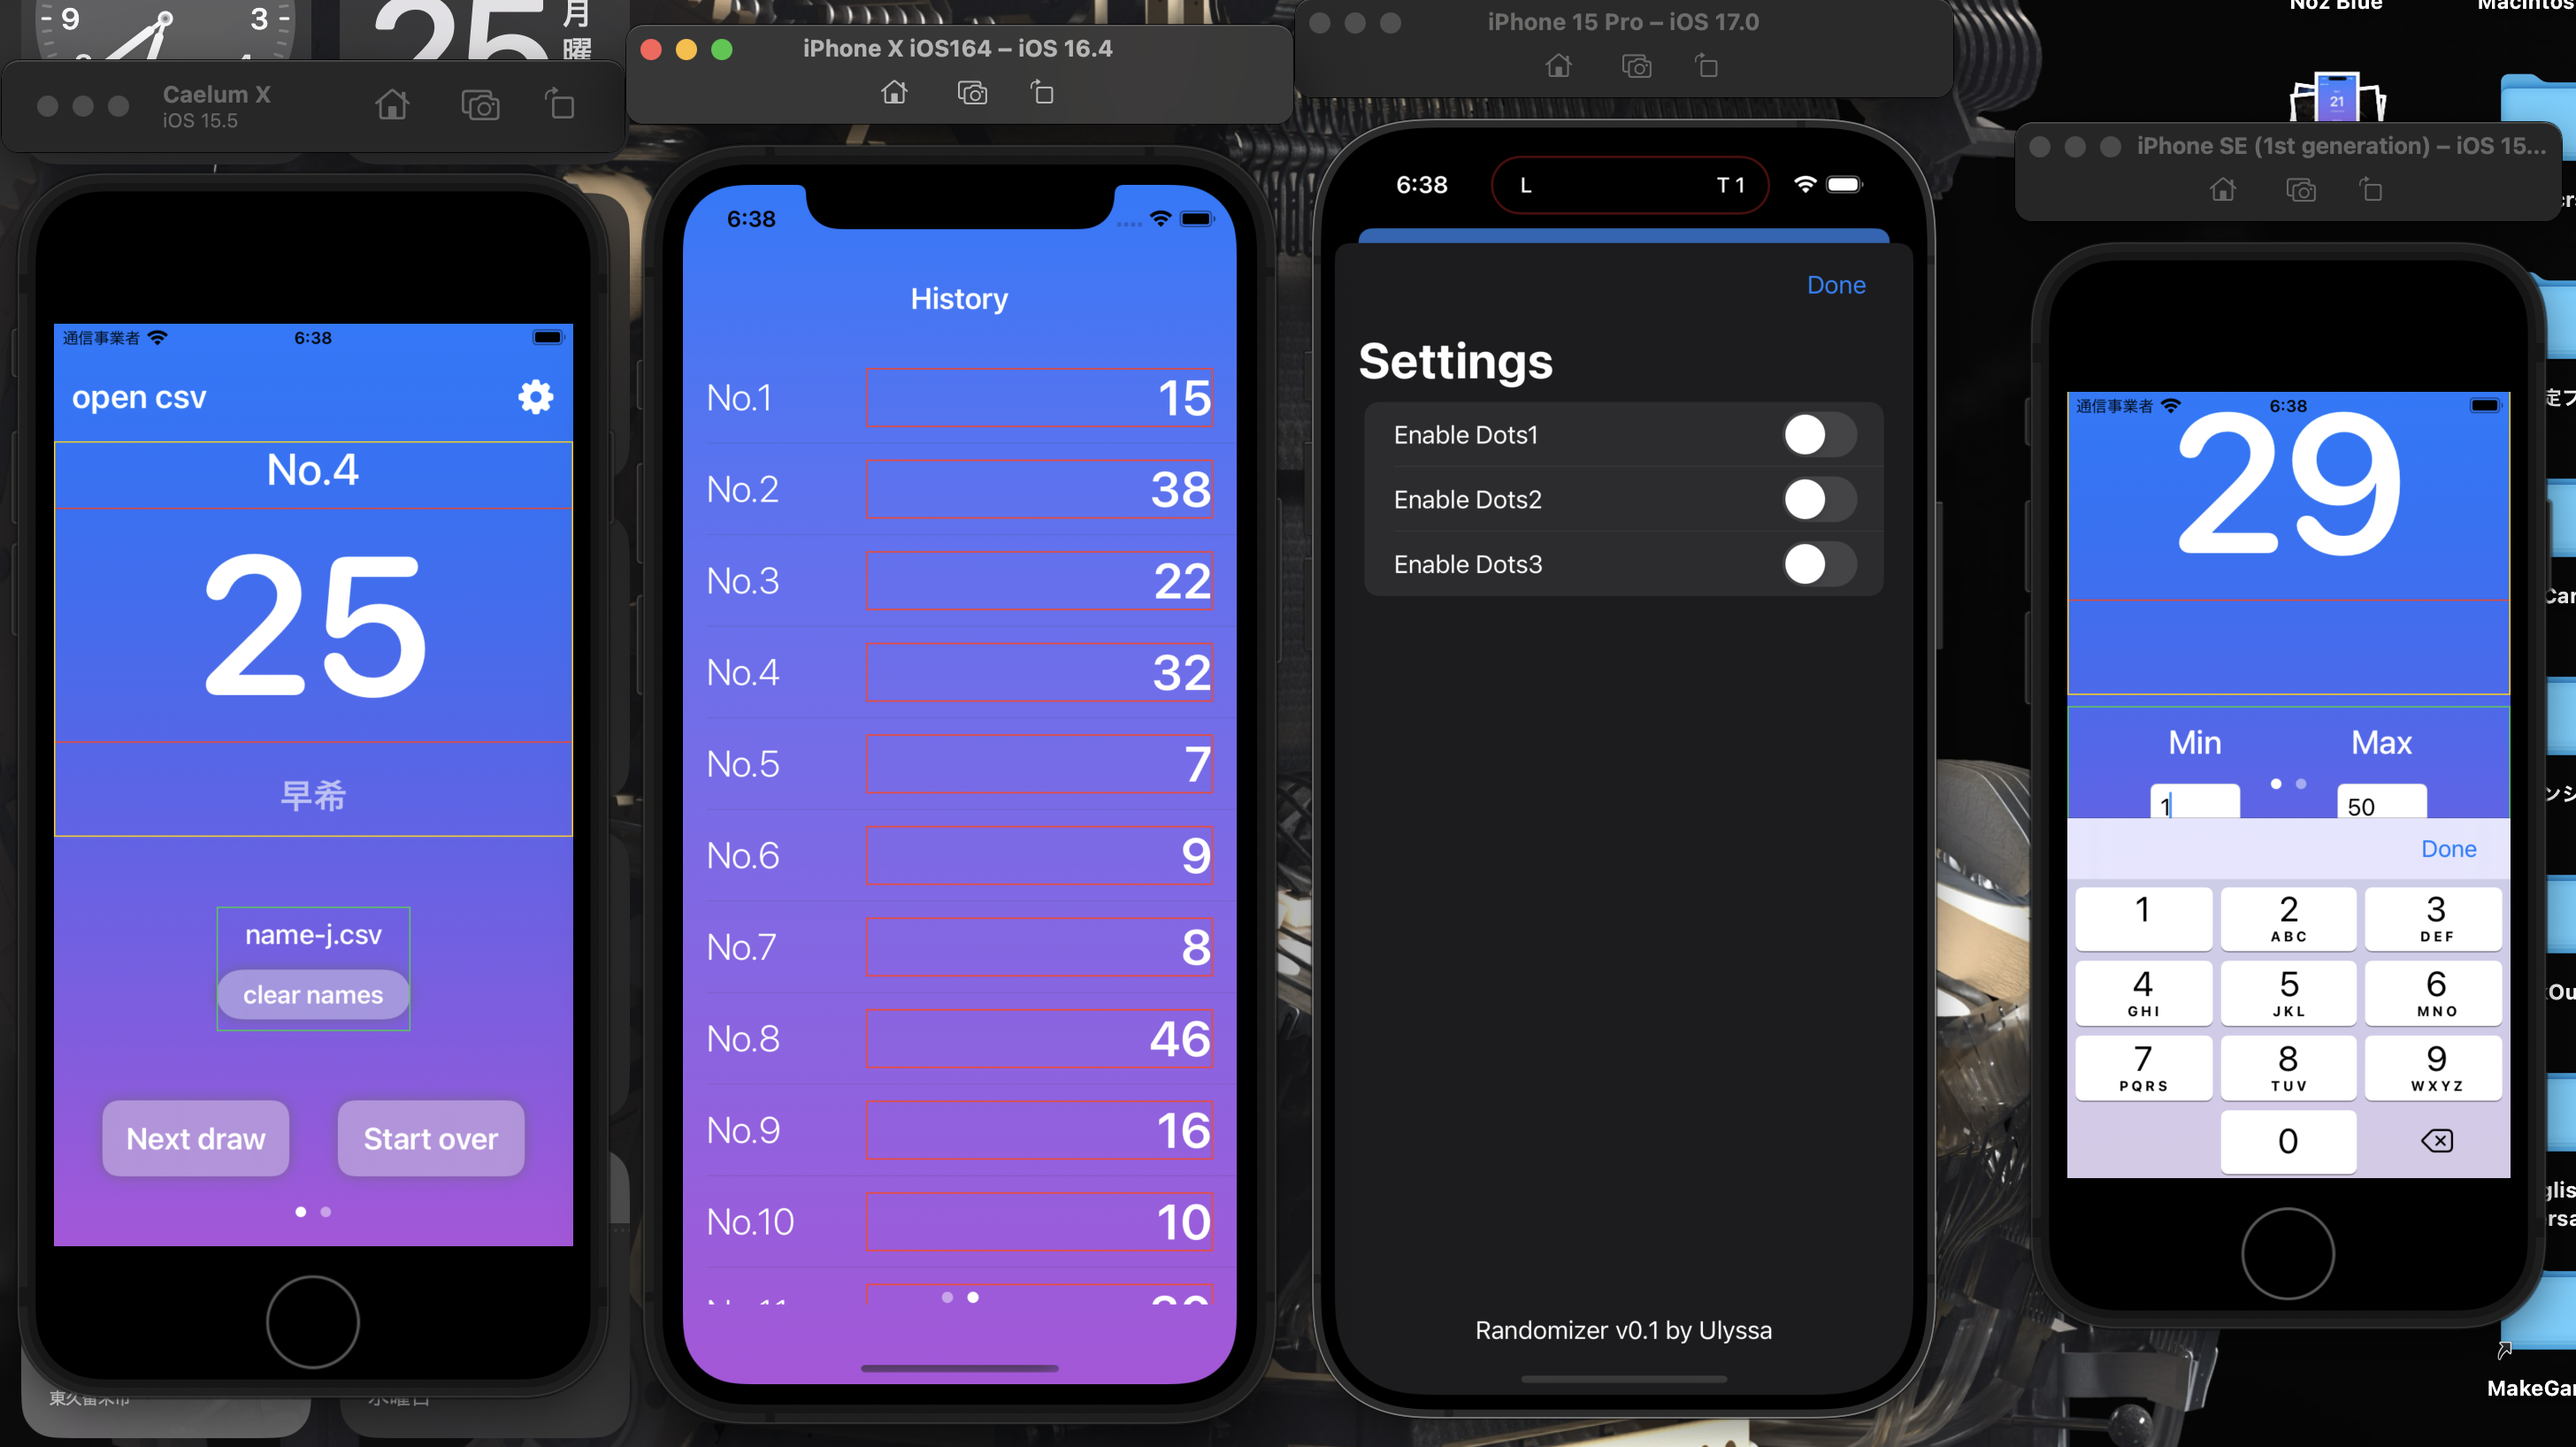
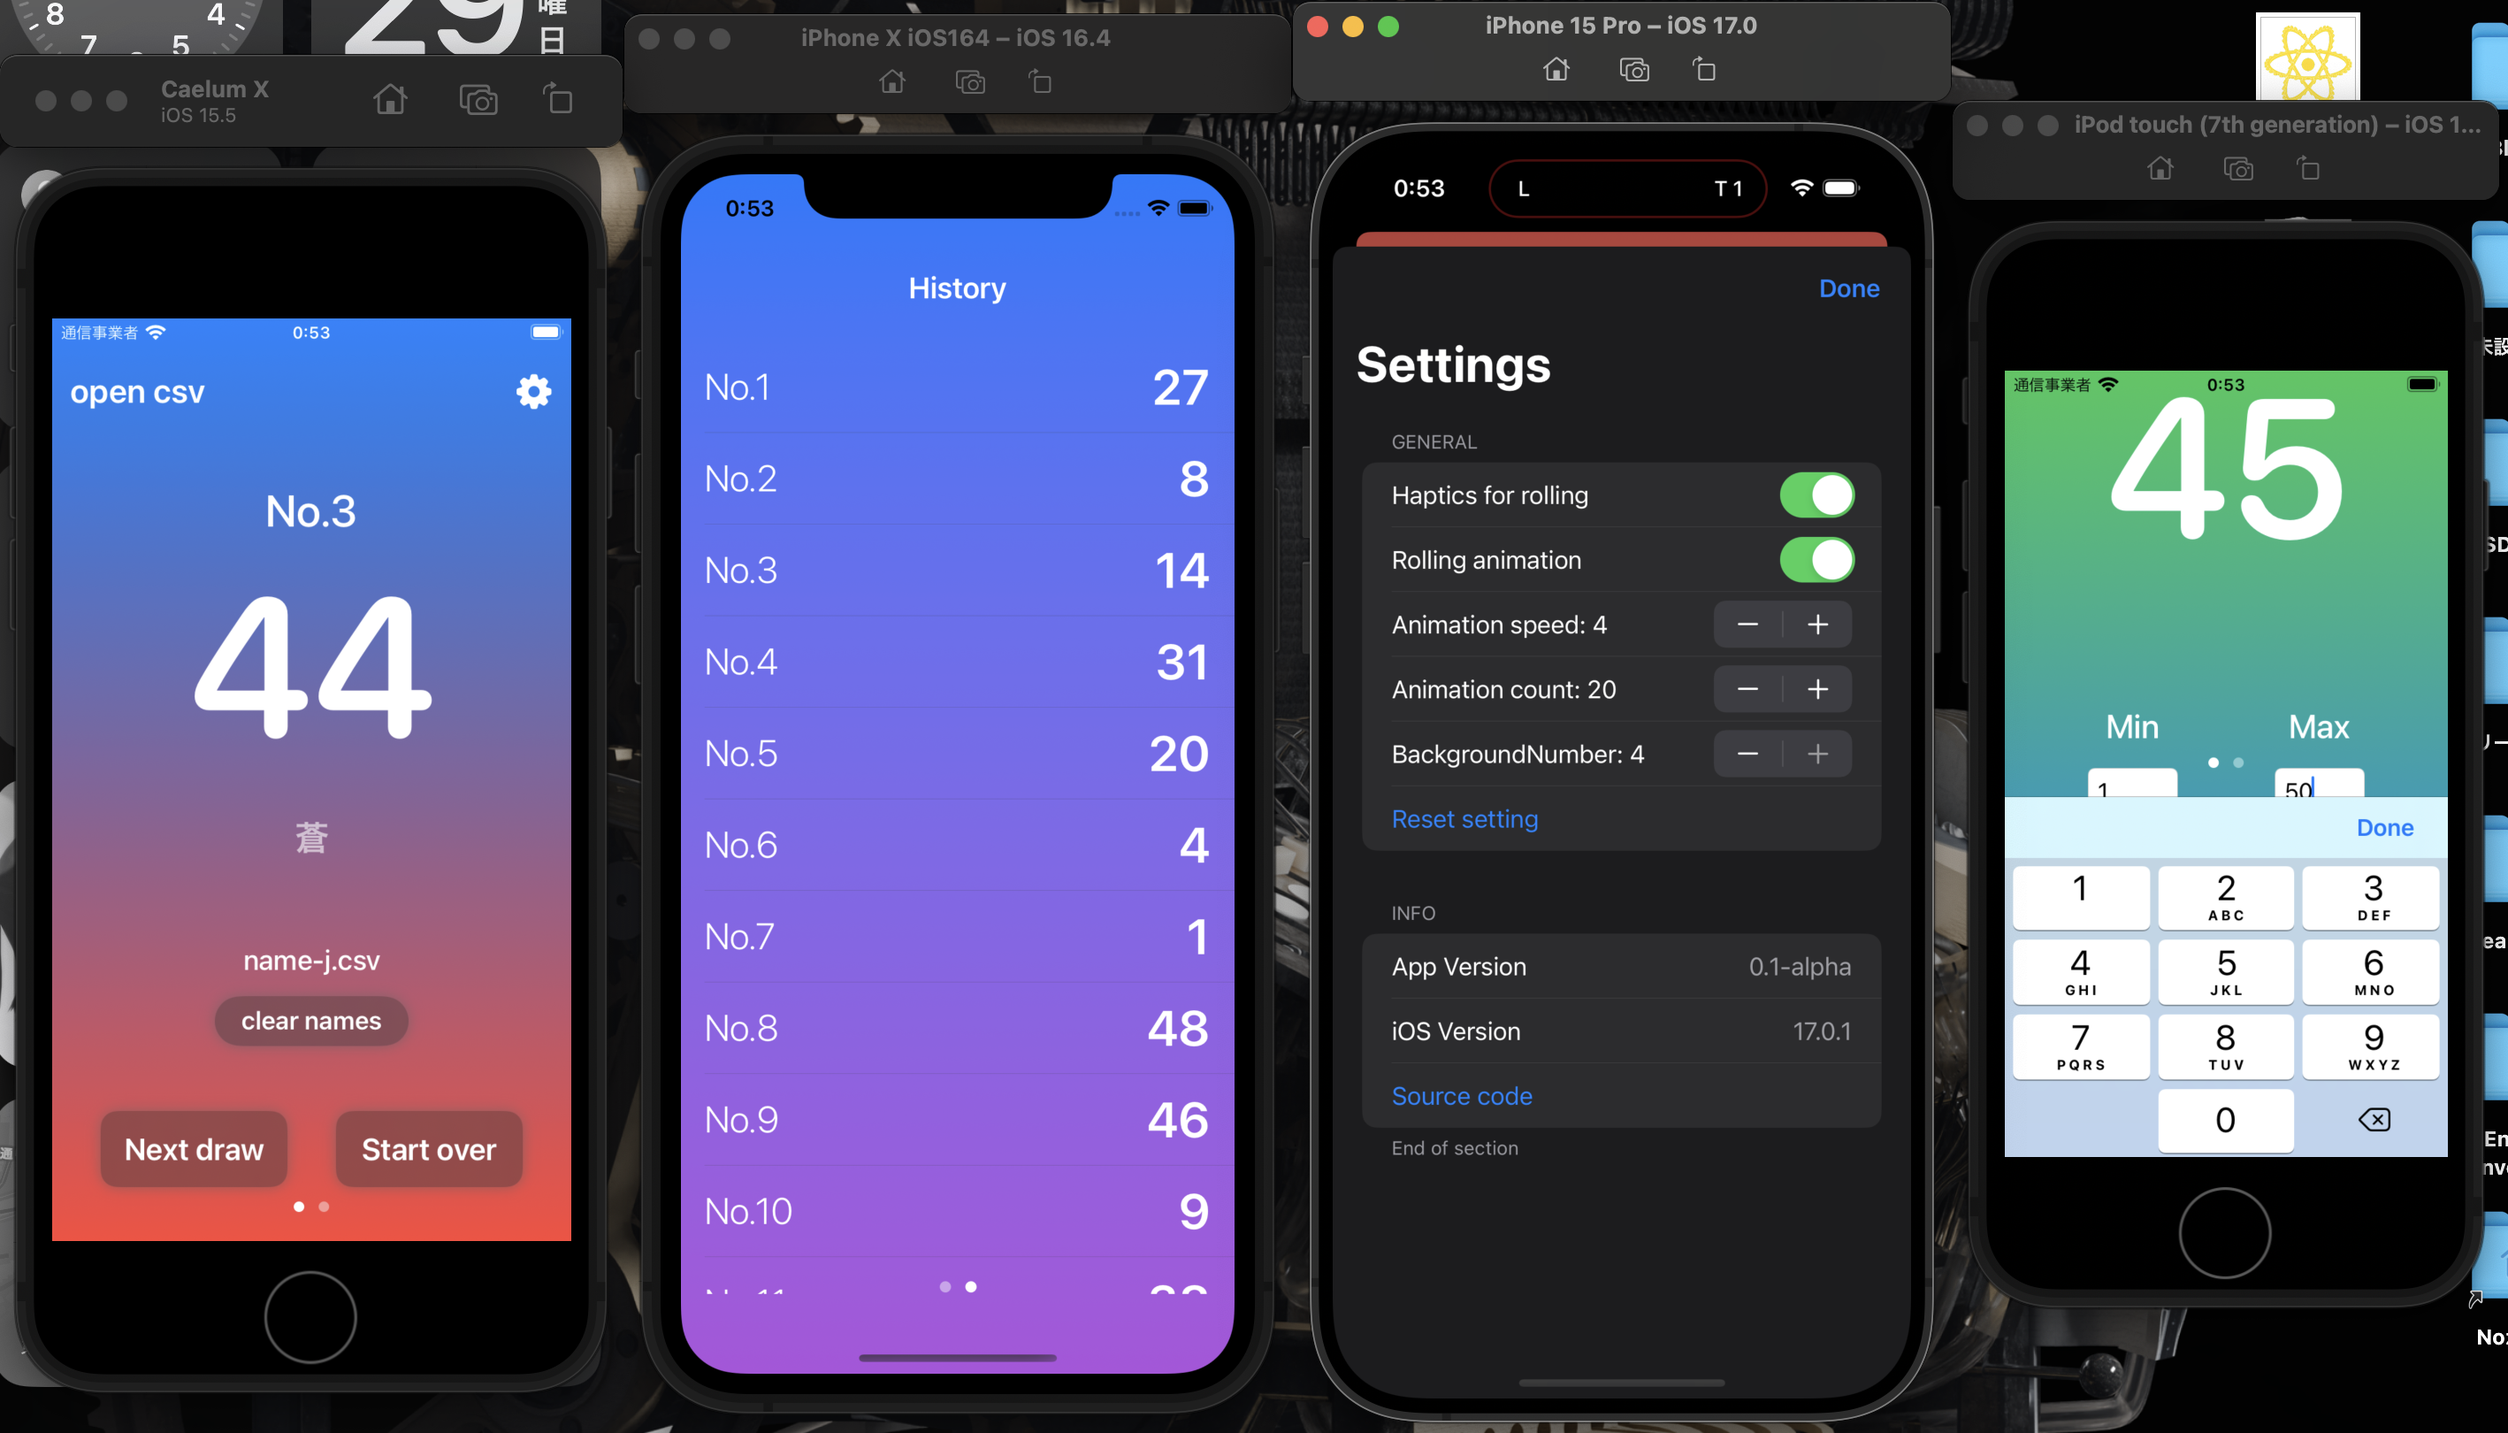
Updated screenshot and changed code for iOS 15

diff --git a/Randomizer/SettingsView.swift b/Randomizer/SettingsView.swift
@@ -107,11 +107,18 @@ struct SettingsView: View {
                             }
                         }
                         //Picker
+                        Stepper(value: $configStore.configBgColor, in: 0...4){//M1 Macでは使えない
+                            Text("BackgroundNumber: \(configStore.configBgColor)")
+                        } onEditingChanged: { _ in//使わないとき_を入れる
+                            configStore.gradientPicker = randomBackground(conf: configStore.configBgColor, current: configStore.gradientPicker)
+                        }
                         Button("Reset setting", action:{
                             configStore.isHapticsOn = true
                             configStore.isRollingOn = true
-                            configStore.rollingCountLimit = 25
-                            configStore.rollingSpeed = 3
+                            configStore.rollingCountLimit = 20
+                            configStore.rollingSpeed = 4
+                            configStore.configBgColor = 3
+                            configStore.gradientPicker = randomBackground(conf: configStore.configBgColor, current: configStore.gradientPicker)
                         })
                     }
                     Section(header: Text("info"), footer: Text("End of section")){
